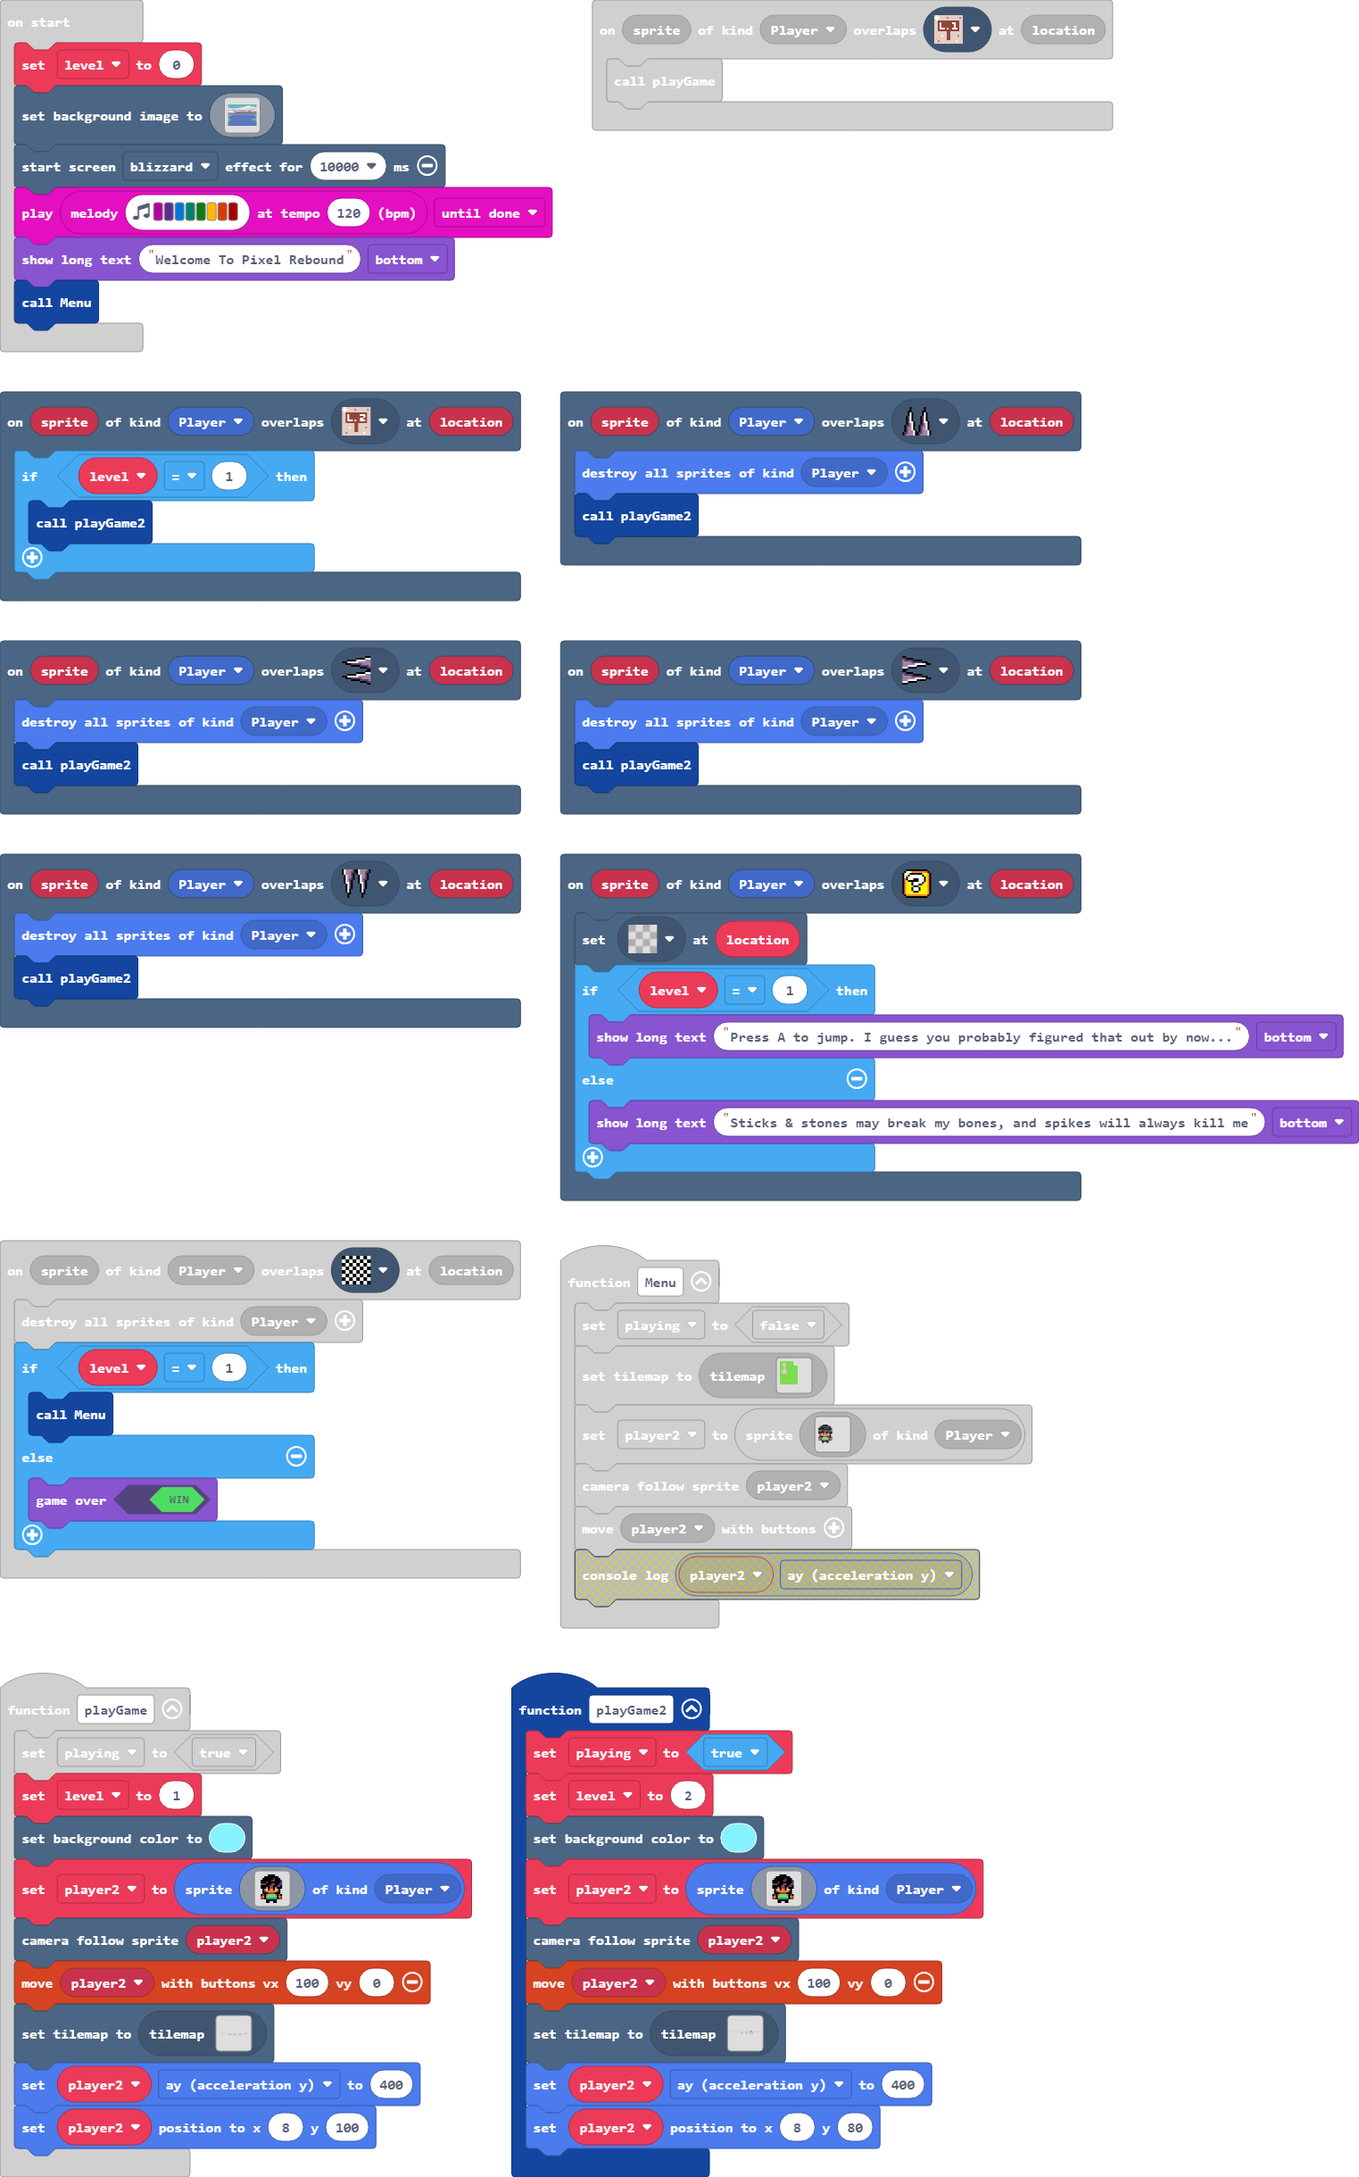
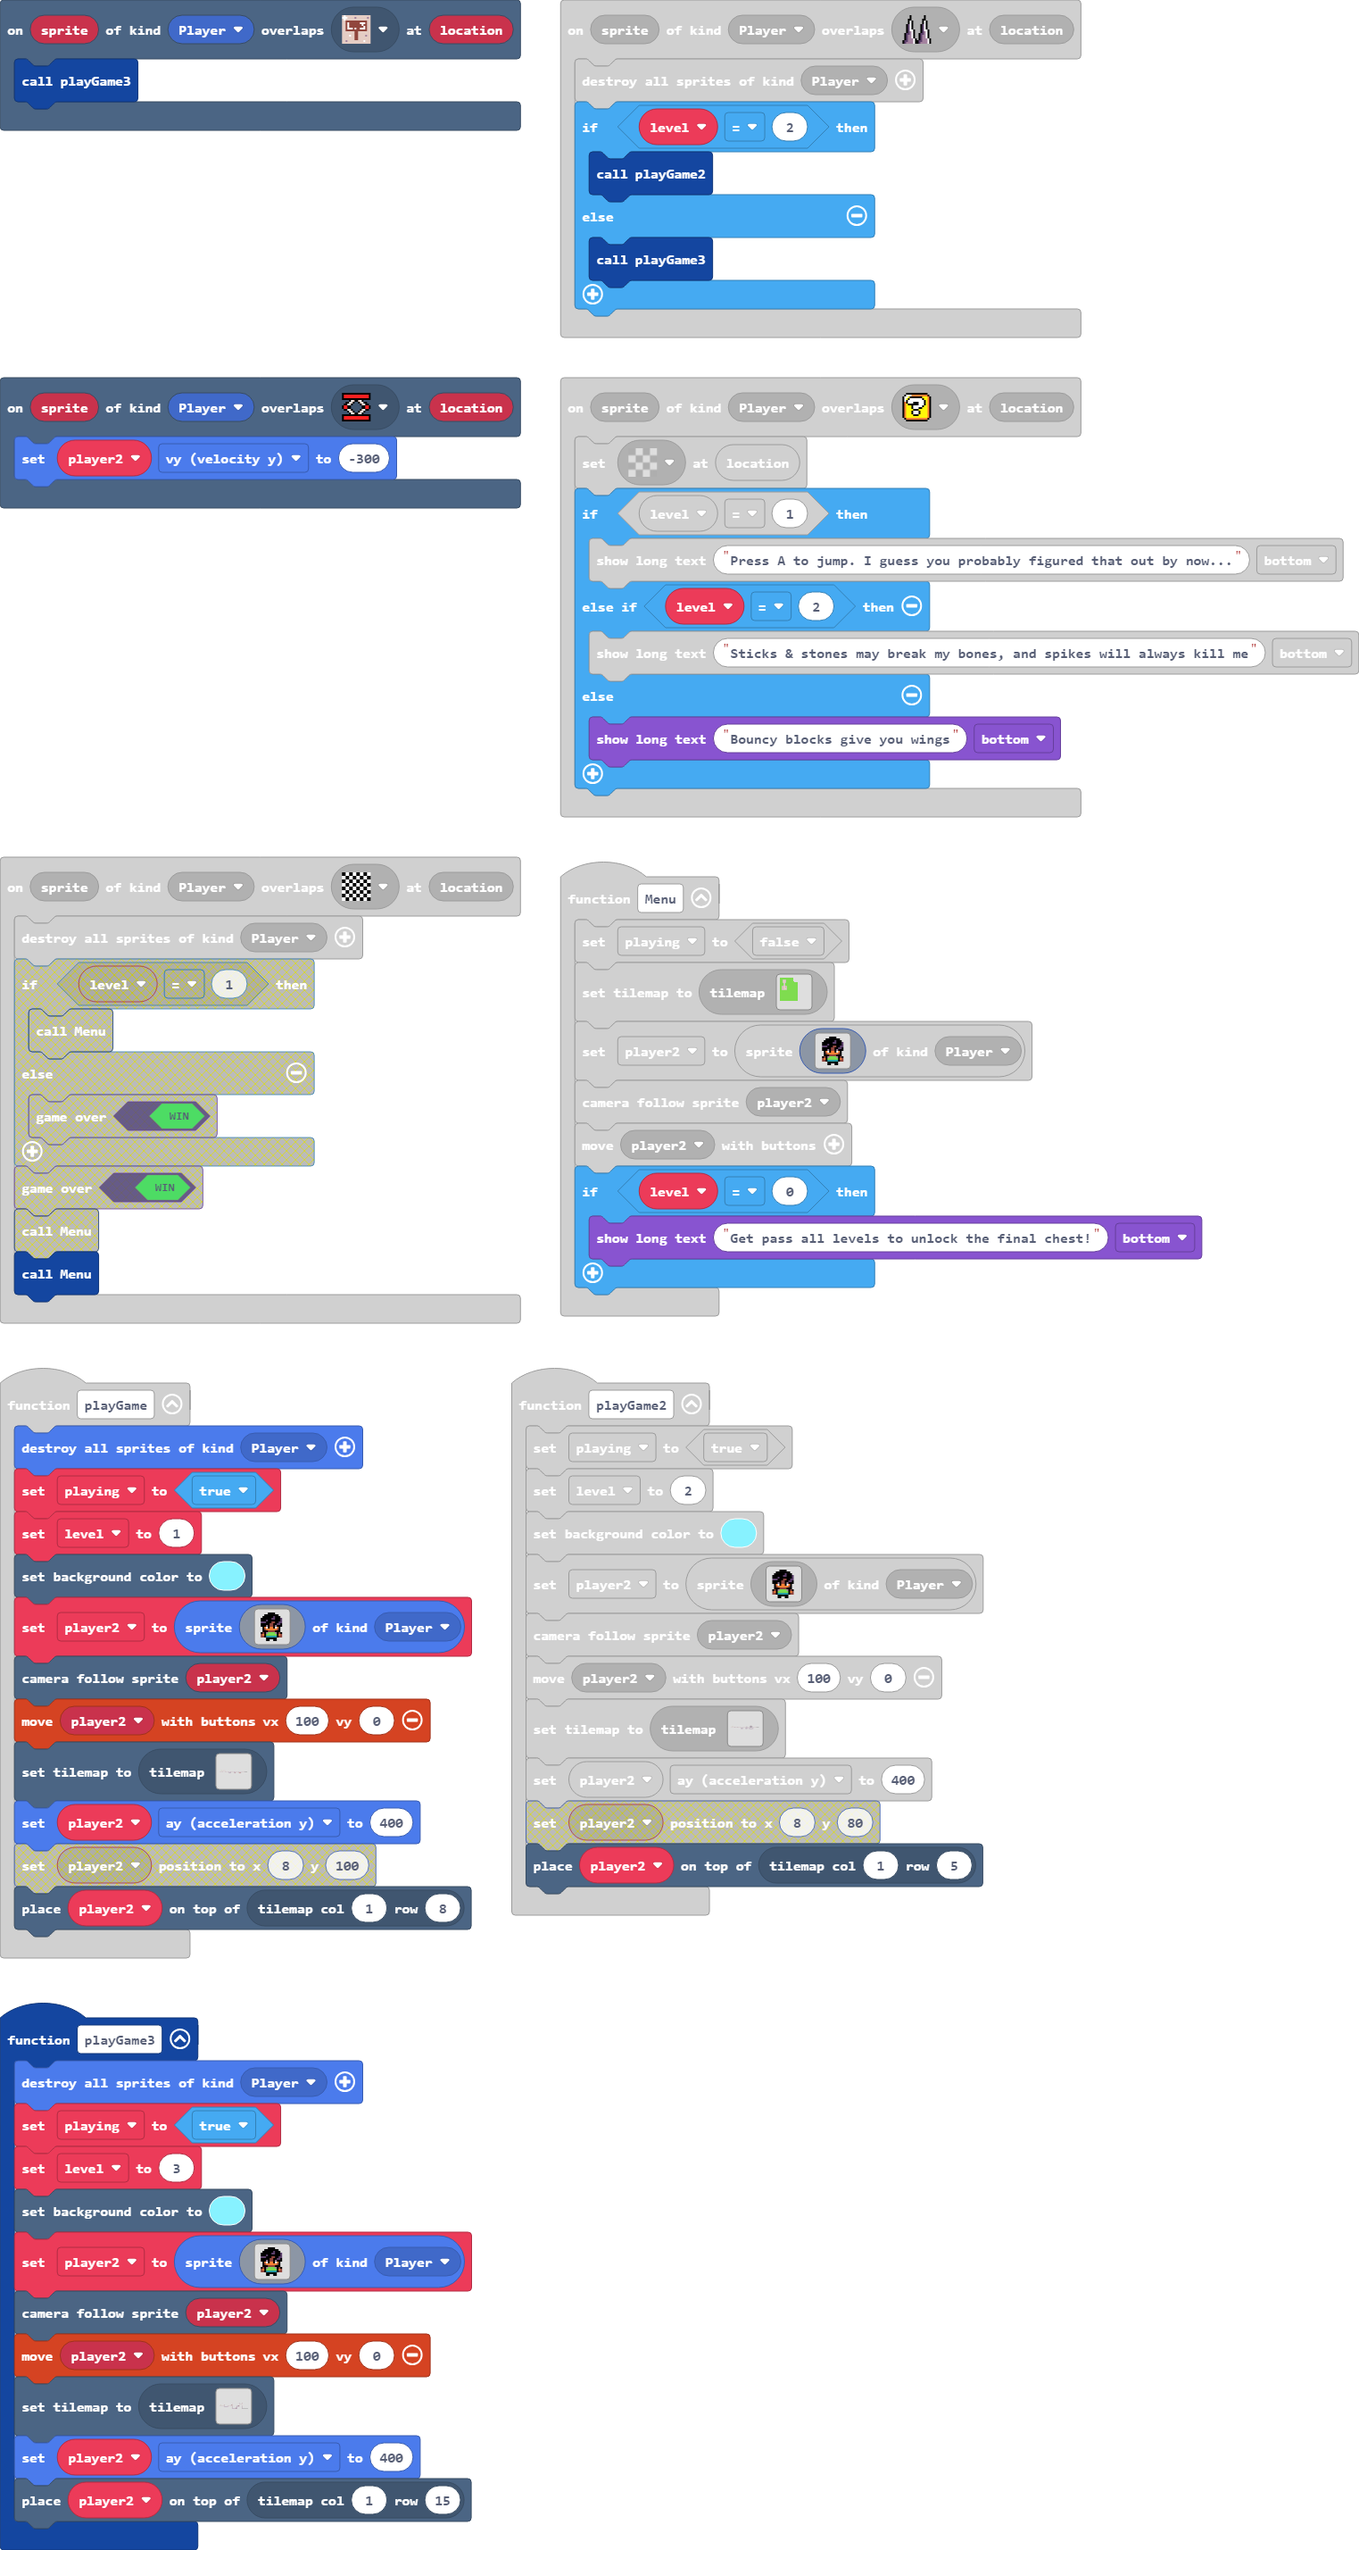
lvl 3

diff --git a/tilemap.g.ts b/tilemap.g.ts
@@ -18,6 +18,10 @@ namespace myTiles {
     export const tile7 = image.ofBuffer(hex``);
     //% fixedInstance jres blockIdentity=images._tile
     export const tile8 = image.ofBuffer(hex``);
+    //% fixedInstance jres blockIdentity=images._tile
+    export const tile9 = image.ofBuffer(hex``);
+    //% fixedInstance jres blockIdentity=images._tile
+    export const tile10 = image.ofBuffer(hex``);
 
     helpers._registerFactory("tilemap", function(name: string) {
         switch(helpers.stringTrim(name)) {
@@ -59,27 +63,8 @@ namespace myTiles {
 . . . . . . . . . . . . . . . . 
 . . . . . . . . . . . . . . . . 
 `, [myTiles.transparency16], TileScale.Sixteen);
-            case "level4":
[1 lines of base64/hex data omitted]
-.....................................................................
-.....................................................................
-.....................................................................
-.....................................................................
-.....................................................................
-.....................................................................
-........222222.......................................................
-........2....2.......................................................
-........2....2..............................................2........
-222222222....22222222222..22222222222.2222222222...2222222222........
-.......................2..2.........2.2........2...2.................
-.......................2..2.........2.2........2...2.................
-.......................2222.........222........22222.................
-.....................................................................
-.....................................................................
-.....................................................................
-`, [myTiles.transparency16,sprites.dungeon.floorLight5,sprites.dungeon.floorLight3,sprites.dungeon.floorLight4,sprites.dungeon.floorLightMoss,sprites.dungeon.floorLight2,sprites.dungeon.floorMixed,sprites.dungeon.floorDark2,sprites.dungeon.floorDark3,sprites.dungeon.floorDark0,sprites.dungeon.floorDark1,sprites.dungeon.floorDark5,sprites.dungeon.floorDarkDiamond,sprites.dungeon.hazardLava0,sprites.dungeon.hazardLava1,myTiles.tile3,myTiles.tile6], TileScale.Sixteen);
             case "level5":
[2 lines of base64/hex data omitted]
 ...........................................................................
 ...........................................................................
 ...........................................................................
@@ -98,7 +83,7 @@ namespace myTiles {
 ...........................................................................
 `, [myTiles.transparency16,myTiles.tile3,myTiles.tile1,myTiles.tile2,sprites.dungeon.floorLightMoss,sprites.dungeon.floorLight5,sprites.dungeon.floorLight3,sprites.dungeon.floorLight4,sprites.dungeon.floorMixed,sprites.dungeon.floorDark0,sprites.dungeon.floorDark5,sprites.dungeon.floorDarkDiamond,sprites.dungeon.floorDark2,sprites.dungeon.floorDark3,sprites.dungeon.floorDark1,myTiles.tile4,myTiles.tile5,myTiles.tile6], TileScale.Sixteen);
             case "level2":
[2 lines of base64/hex data omitted]
 ................................
 ..222222........................
 ..2....2........................
@@ -131,7 +116,64 @@ namespace myTiles {
 ................................
 ................................
 ................................
-`, [myTiles.transparency16,sprites.castle.tileGrass1,sprites.castle.tilePath5,sprites.castle.tilePath8,sprites.castle.tilePath9,sprites.castle.tilePath6,sprites.castle.tilePath3,sprites.castle.tilePath1,sprites.castle.tilePath4,sprites.castle.tilePath7,sprites.castle.tilePath2,myTiles.tile7,myTiles.tile8], TileScale.Sixteen);
+`, [myTiles.transparency16,sprites.castle.tileGrass1,sprites.castle.tilePath5,sprites.castle.tilePath8,sprites.castle.tilePath9,sprites.castle.tilePath6,sprites.castle.tilePath3,sprites.castle.tilePath1,sprites.castle.tilePath4,sprites.castle.tilePath7,sprites.castle.tilePath2,myTiles.tile7,myTiles.tile8,myTiles.tile10], TileScale.Sixteen);
+            case "level4":
[1 lines of base64/hex data omitted]
+.....................................................................
+.....................................................................
+.....................................................................
+.....................................................................
+.....................................................................
+.....................................................................
+........222222.......................................................
+........2....2.......................................................
+........2....2..............................................2........
+222222222....22222222222..22222222222.2222222222...2222222222........
+.......................2..2.........2.2........2...2.................
+.......................2..2.........2.2........2...2.................
+.......................2222.........222........22222.................
+.....................................................................
+.....................................................................
+.....................................................................
+`, [myTiles.transparency16,sprites.dungeon.floorLight5,sprites.dungeon.floorLight3,sprites.dungeon.floorLight4,sprites.dungeon.floorLightMoss,sprites.dungeon.floorLight2,sprites.dungeon.floorMixed,sprites.dungeon.floorDark2,sprites.dungeon.floorDark3,sprites.dungeon.floorDark0,sprites.dungeon.floorDark1,sprites.dungeon.floorDark5,sprites.dungeon.floorDarkDiamond,sprites.dungeon.hazardLava0,sprites.dungeon.hazardLava1,myTiles.tile3,myTiles.tile6], TileScale.Sixteen);
+            case "level6":
[1 lines of base64/hex data omitted]
+................................................................................
+................................................................................
+................................................................................
+................................................................................
+................................................................................
+................................................................................
+................................................................................
+................................................................................
+....................................2...........................................
+....................................2..........................2................
+....................................2..................222222222................
+....................................2..................2.......2................
+....................................2..................2.......2................
+....................................2..................2.......2................
+....................................2..................2.......2................
+.............2.........2.........2222..................2.......2................
+22222222222222.........22222222222222...............2222.......2................
+.............2.........2............2...........22222222.......2................
+.............22222222222............2...........2..............2................
+....................................2...........2..............2................
+....................................2...........2..............2................
+....................................2...........2..............2................
+....................................2...........2..............2................
+....................................2........2222..............2................
+....................................2222222222222..............2................
+................................................................................
+................................................................................
+................................................................................
+................................................................................
+................................................................................
+................................................................................
+................................................................................
+................................................................................
+................................................................................
+................................................................................
+`, [myTiles.transparency16,myTiles.tile3,myTiles.tile6,sprites.dungeon.floorLightMoss,sprites.dungeon.floorLight5,sprites.dungeon.floorLight3,sprites.dungeon.floorLight4,sprites.dungeon.floorMixed,sprites.dungeon.floorDark0,sprites.dungeon.floorDark5,sprites.dungeon.floorDarkDiamond,sprites.dungeon.floorDark2,sprites.dungeon.floorDark3,sprites.dungeon.floorDark1,myTiles.tile9,sprites.dungeon.floorLight2,myTiles.tile1], TileScale.Sixteen);
         }
         return null;
     })
@@ -155,6 +197,10 @@ namespace myTiles {
             case "tile7":return tile7;
             case "myTile6":
             case "tile8":return tile8;
+            case "myTile7":
+            case "tile9":return tile9;
+            case "myTile8":
+            case "tile10":return tile10;
         }
         return null;
     })

diff --git a/main.ts b/main.ts
@@ -6,8 +6,10 @@ scene.onOverlapTile(SpriteKind.Player, assets.tile`myTile1`, function (sprite, l
     tiles.setTileAt(location, assets.tile`transparency16`)
     if (level == 1) {
         game.showLongText("Press A to jump. I guess you probably figured that out by now...", DialogLayout.Bottom)
-    } else {
+    } else if (level == 2) {
         game.showLongText("Sticks & stones may break my bones, and spikes will always kill me", DialogLayout.Bottom)
+    } else {
+        game.showLongText("Bouncy blocks give you wings", DialogLayout.Bottom)
     }
 })
 controller.up.onEvent(ControllerButtonEvent.Pressed, function () {
@@ -76,7 +78,11 @@ scene.onOverlapTile(SpriteKind.Player, assets.tile`myTile6`, function (sprite, l
 })
 scene.onOverlapTile(SpriteKind.Player, assets.tile`myTile`, function (sprite, location) {
     sprites.destroyAllSpritesOfKind(SpriteKind.Player)
-    playGame2()
+    if (level == 2) {
+        playGame2()
+    } else {
+        playGame3()
+    }
 })
 controller.A.onEvent(ControllerButtonEvent.Pressed, function () {
     if (playing) {
@@ -89,13 +95,12 @@ scene.onOverlapTile(SpriteKind.Player, sprites.dungeon.hazardLava0, function (sp
     sprites.destroyAllSpritesOfKind(SpriteKind.Player)
     playGame()
 })
+scene.onOverlapTile(SpriteKind.Player, assets.tile`myTile7`, function (sprite, location) {
+    player2.vy = -300
+})
 scene.onOverlapTile(SpriteKind.Player, assets.tile`myTile4`, function (sprite, location) {
     sprites.destroyAllSpritesOfKind(SpriteKind.Player)
-    if (level == 1) {
-        Menu()
-    } else {
-        game.gameOver(true)
-    }
+    Menu()
 })
 controller.left.onEvent(ControllerButtonEvent.Pressed, function () {
     animation.runImageAnimation(
@@ -219,7 +224,37 @@ controller.right.onEvent(ControllerButtonEvent.Pressed, function () {
     true
     )
 })
+function playGame3 () {
+    sprites.destroyAllSpritesOfKind(SpriteKind.Player)
+    playing = true
+    level = 3
+    scene.setBackgroundColor(9)
+    player2 = sprites.create(img`
+        . . . . f f f f . . . . . 
+        . . f f f f f f f f . . . 
+        . f f f f f f c f f f . . 
+        f f f f f f c c f f f c . 
+        f f f c f f f f f f f c . 
+        c c c f f f e e f f c c . 
+        f f f f f e e f f c c f . 
+        f f f b f e e f b f f f . 
+        . f 4 1 f 4 4 f 1 4 f . . 
+        . f e 4 4 4 4 4 4 e f . . 
+        . f f f e e e e f f f . . 
+        f e f b 7 7 7 7 b f e f . 
+        e 4 f 7 7 7 7 7 7 f 4 e . 
+        e e f 6 6 6 6 6 6 f e e . 
+        . . . f f f f f f . . . . 
+        . . . f f . . f f . . . . 
+        `, SpriteKind.Player)
+    scene.cameraFollowSprite(player2)
+    controller.moveSprite(player2, 100, 0)
+    tiles.setCurrentTilemap(tilemap`level6`)
+    player2.ay = 400
+    tiles.placeOnTile(player2, tiles.getTileLocation(1, 15))
+}
 function playGame () {
+    sprites.destroyAllSpritesOfKind(SpriteKind.Player)
     playing = true
     level = 1
     scene.setBackgroundColor(9)
@@ -245,11 +280,14 @@ function playGame () {
     controller.moveSprite(player2, 100, 0)
     tiles.setCurrentTilemap(tilemap`level4`)
     player2.ay = 400
-    player2.setPosition(8, 100)
+    tiles.placeOnTile(player2, tiles.getTileLocation(1, 8))
 }
 scene.onOverlapTile(SpriteKind.Player, sprites.dungeon.hazardLava1, function (sprite, location) {
     sprites.destroyAllSpritesOfKind(SpriteKind.Player)
     playGame()
+})
+scene.onOverlapTile(SpriteKind.Player, assets.tile`myTile8`, function (sprite, location) {
+    playGame3()
 })
 controller.down.onEvent(ControllerButtonEvent.Pressed, function () {
     animation.runImageAnimation(
@@ -321,25 +359,28 @@ function Menu () {
     playing = false
     tiles.setCurrentTilemap(tilemap`level2`)
     player2 = sprites.create(img`
-        ....ffff.................
-        ..ffffffff...............
-        .ffffffcfff..............
-        ffffffccfffc.............
-        fffcfffffffc.............
-        cccfffeeffcc.............
-        fffffeeffccf.............
-        fffbfeefbfff.............
-        .f41f44f14f..............
-        .fe444444ef..............
-        .fffeeeefff..............
-        fefb7777bfef.............
-        e4f777777f4e.............
-        eef666666fee.............
-        ...ffffff................
-        ...ff..ff................
+        . . . . f f f f . . . . 
+        . . f f f f f f f f . . 
+        . f f f f f f c f f f . 
+        f f f f f f c c f f f c 
+        f f f c f f f f f f f c 
+        c c c f f f e e f f c c 
+        f f f f f e e f f c c f 
+        f f f b f e e f b f f f 
+        . f 4 1 f 4 4 f 1 4 f . 
+        . f e 4 4 4 4 4 4 e f . 
+        . f f f e e e e f f f . 
+        f e f b 7 7 7 7 b f e f 
+        e 4 f 7 7 7 7 7 7 f 4 e 
+        e e f 6 6 6 6 6 6 f e e 
+        . . . f f f f f f . . . 
+        . . . f f . . f f . . . 
         `, SpriteKind.Player)
     scene.cameraFollowSprite(player2)
     controller.moveSprite(player2)
+    if (level == 0) {
+        game.showLongText("Get pass all levels to unlock the final chest!", DialogLayout.Bottom)
+    }
 }
 function playGame2 () {
     playing = true
@@ -367,7 +408,7 @@ function playGame2 () {
     controller.moveSprite(player2, 100, 0)
     tiles.setCurrentTilemap(tilemap`level5`)
     player2.ay = 400
-    player2.setPosition(8, 80)
+    tiles.placeOnTile(player2, tiles.getTileLocation(1, 5))
 }
 let playing = false
 let player2: Sprite = null
